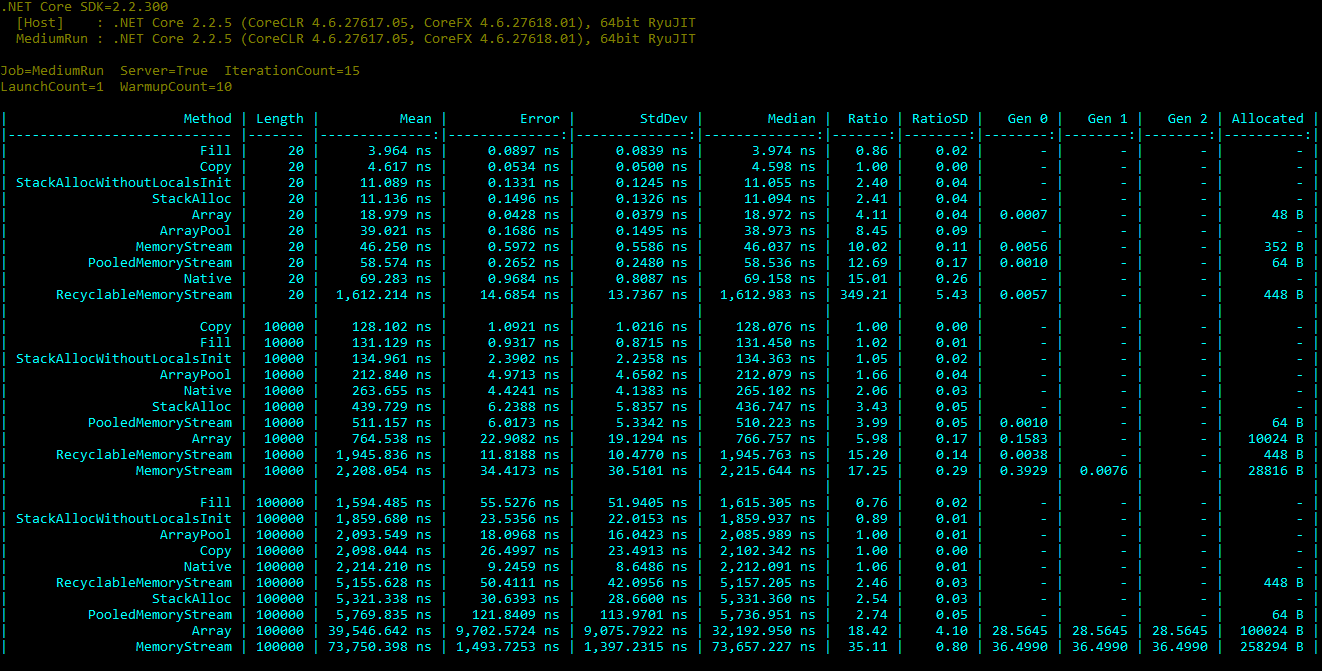
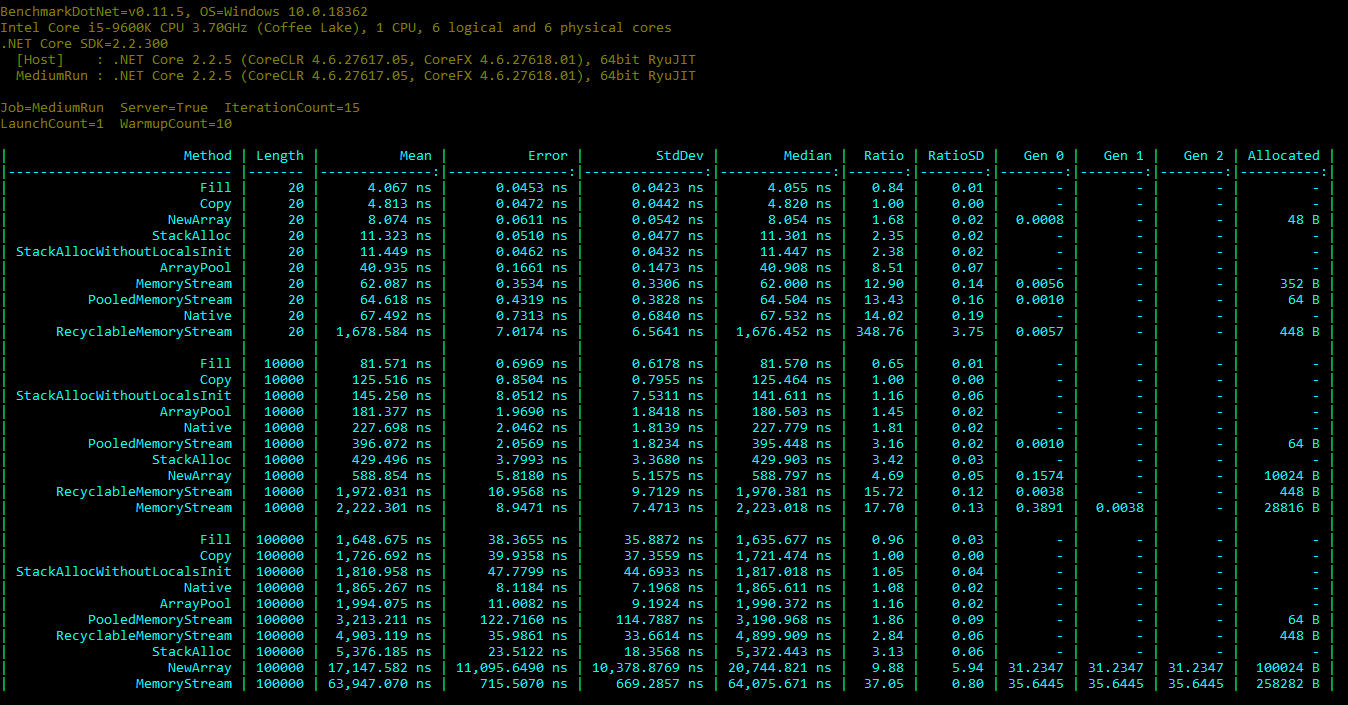
Minor fixes

Changed region(s): [[0.0, 0.0, 1.0, 0.9836], [0.8994, 0.5067, 0.9304, 0.5663]]

diff --git a/PooledMemoryStream/PooledMemoryStream.cs b/PooledMemoryStream/PooledMemoryStream.cs
@@ -7,6 +7,8 @@ namespace BetterStreams
 {
     public sealed class PooledMemoryStream : Stream
     {
+        private const float overexpansionFactor = 2;
+
         private byte[] data;
         private int length;
         private ArrayPool<byte> pool;
@@ -128,7 +130,7 @@ namespace BetterStreams
 
             if (this.Capacity - this.Position < count)
             {
-                this.SetCapacity((int)this.Position + count);
+                this.SetCapacity((int)(overexpansionFactor * (this.Position + count)));
             }
 
             Buffer.BlockCopy(buffer, offset, this.data, (int)this.Position, count);

diff --git a/Benchmarks/Streams.cs b/Benchmarks/Streams.cs
@@ -36,10 +36,10 @@ namespace Benchmarks
         }
 
         [Benchmark]
-        public void Array()
+        public void NewArray()
         {
             var array = new byte[this.Length];
-            this.data.CopyTo(array, 0);
+            Buffer.BlockCopy(array, 0, array, 0, this.Length);
         }
 
         [Benchmark]

diff --git a/README.md b/README.md
@@ -12,37 +12,37 @@ Job=MediumRun  Server=True  IterationCount=15
 LaunchCount=1  WarmupCount=10  
 
 ```
-|                      Method | Length |          Mean |         Error |        StdDev |  Ratio | RatioSD |   Gen 0 |   Gen 1 |   Gen 2 | Allocated |
-|---------------------------- |------- |--------------:|--------------:|--------------:|-------:|--------:|--------:|--------:|--------:|----------:|
-|                        Fill |     20 |      3.758 ns |     0.0521 ns |     0.0487 ns |   0.80 |    0.02 |       - |       - |       - |         - |
-|                        Copy |     20 |      4.673 ns |     0.0634 ns |     0.0593 ns |   1.00 |    0.00 |       - |       - |       - |         - |
-| StackAllocWithoutLocalsInit |     20 |     11.070 ns |     0.0508 ns |     0.0475 ns |   2.37 |    0.03 |       - |       - |       - |         - |
-|                  StackAlloc |     20 |     11.142 ns |     0.1076 ns |     0.0898 ns |   2.38 |    0.04 |       - |       - |       - |         - |
-|                       Array |     20 |     19.553 ns |     0.3221 ns |     0.3013 ns |   4.18 |    0.08 |  0.0007 |       - |       - |      48 B |
-|                   ArrayPool |     20 |     37.095 ns |     0.2159 ns |     0.2019 ns |   7.94 |    0.11 |       - |       - |       - |         - |
-|                MemoryStream |     20 |     58.037 ns |     0.8776 ns |     0.7779 ns |  12.41 |    0.27 |  0.0056 |       - |       - |     352 B |
-|          PooledMemoryStream |     20 |     66.881 ns |     0.1896 ns |     0.1773 ns |  14.31 |    0.18 |  0.0010 |       - |       - |      64 B |
-|                      Native |     20 |     68.231 ns |     1.1526 ns |     1.0781 ns |  14.60 |    0.37 |       - |       - |       - |         - |
-|      RecyclableMemoryStream |     20 |  1,639.042 ns |    10.6559 ns |     9.9676 ns | 350.80 |    4.60 |  0.0057 |       - |       - |     448 B |
-|                             |        |               |               |               |        |         |         |         |         |           |
-|                        Fill |  10000 |     78.834 ns |     0.7876 ns |     0.7367 ns |   0.63 |    0.01 |       - |       - |       - |         - |
-| StackAllocWithoutLocalsInit |  10000 |    100.217 ns |     1.6301 ns |     1.5248 ns |   0.79 |    0.01 |       - |       - |       - |         - |
-|                        Copy |  10000 |    126.100 ns |     0.6411 ns |     0.5353 ns |   1.00 |    0.00 |       - |       - |       - |         - |
-|                   ArrayPool |  10000 |    167.842 ns |     3.5533 ns |     3.3237 ns |   1.34 |    0.03 |       - |       - |       - |         - |
-|                      Native |  10000 |    216.898 ns |     5.6388 ns |     4.9986 ns |   1.72 |    0.04 |       - |       - |       - |         - |
-|                  StackAlloc |  10000 |    425.450 ns |     8.3980 ns |     7.8555 ns |   3.36 |    0.05 |       - |       - |       - |         - |
-|          PooledMemoryStream |  10000 |    523.484 ns |     7.0227 ns |     6.5690 ns |   4.14 |    0.05 |       - |       - |       - |      64 B |
-|                       Array |  10000 |    797.254 ns |    13.5948 ns |    12.7166 ns |   6.33 |    0.10 |  0.1593 |       - |       - |   10024 B |
-|      RecyclableMemoryStream |  10000 |  1,909.457 ns |    12.8024 ns |    11.9754 ns |  15.14 |    0.12 |  0.0038 |       - |       - |     448 B |
-|                MemoryStream |  10000 |  2,036.022 ns |    29.8443 ns |    26.4562 ns |  16.16 |    0.22 |  0.3929 |  0.0076 |       - |   28816 B |
-|                             |        |               |               |               |        |         |         |         |         |           |
-|                        Fill | 100000 |  1,655.496 ns |    50.7124 ns |    47.4365 ns |   0.95 |    0.03 |       - |       - |       - |         - |
-|                        Copy | 100000 |  1,737.465 ns |    29.9842 ns |    26.5802 ns |   1.00 |    0.00 |       - |       - |       - |         - |
-|                      Native | 100000 |  1,831.317 ns |    20.4847 ns |    18.1592 ns |   1.05 |    0.02 |       - |       - |       - |         - |
-| StackAllocWithoutLocalsInit | 100000 |  2,006.037 ns |    25.0503 ns |    23.4320 ns |   1.15 |    0.02 |       - |       - |       - |         - |
-|                   ArrayPool | 100000 |  2,009.389 ns |    16.0198 ns |    14.9849 ns |   1.16 |    0.02 |       - |       - |       - |         - |
-|      RecyclableMemoryStream | 100000 |  4,557.684 ns |   136.9321 ns |   121.3867 ns |   2.62 |    0.06 |       - |       - |       - |     448 B |
-|                  StackAlloc | 100000 |  5,175.712 ns |   115.4865 ns |   108.0262 ns |   2.98 |    0.09 |       - |       - |       - |         - |
-|          PooledMemoryStream | 100000 |  5,276.844 ns |    31.3270 ns |    27.7706 ns |   3.04 |    0.05 |       - |       - |       - |      64 B |
-|                       Array | 100000 | 33,924.043 ns | 2,701.6352 ns | 2,255.9878 ns |  19.56 |    1.26 | 31.1890 | 31.1890 | 31.1890 |  100024 B |
-|                MemoryStream | 100000 | 65,104.760 ns |   851.1694 ns |   796.1844 ns |  37.45 |    0.83 | 36.8652 | 36.8652 | 36.8652 |  258273 B |
+|                      Method | Length |          Mean |          Error |         StdDev |        Median |  Ratio | RatioSD |   Gen 0 |   Gen 1 |   Gen 2 | Allocated |
+|---------------------------- |------- |--------------:|---------------:|---------------:|--------------:|-------:|--------:|--------:|--------:|--------:|----------:|
+|                        Fill |     20 |      4.067 ns |      0.0453 ns |      0.0423 ns |      4.055 ns |   0.84 |    0.01 |       - |       - |       - |         - |
+|                        Copy |     20 |      4.813 ns |      0.0472 ns |      0.0442 ns |      4.820 ns |   1.00 |    0.00 |       - |       - |       - |         - |
+|                    NewArray |     20 |      8.074 ns |      0.0611 ns |      0.0542 ns |      8.054 ns |   1.68 |    0.02 |  0.0008 |       - |       - |      48 B |
+|                  StackAlloc |     20 |     11.323 ns |      0.0510 ns |      0.0477 ns |     11.301 ns |   2.35 |    0.02 |       - |       - |       - |         - |
+| StackAllocWithoutLocalsInit |     20 |     11.449 ns |      0.0462 ns |      0.0432 ns |     11.447 ns |   2.38 |    0.02 |       - |       - |       - |         - |
+|                   ArrayPool |     20 |     40.935 ns |      0.1661 ns |      0.1473 ns |     40.908 ns |   8.51 |    0.07 |       - |       - |       - |         - |
+|                MemoryStream |     20 |     62.087 ns |      0.3534 ns |      0.3306 ns |     62.000 ns |  12.90 |    0.14 |  0.0056 |       - |       - |     352 B |
+|          PooledMemoryStream |     20 |     64.618 ns |      0.4319 ns |      0.3828 ns |     64.504 ns |  13.43 |    0.16 |  0.0010 |       - |       - |      64 B |
+|                      Native |     20 |     67.492 ns |      0.7313 ns |      0.6840 ns |     67.532 ns |  14.02 |    0.19 |       - |       - |       - |         - |
+|      RecyclableMemoryStream |     20 |  1,678.584 ns |      7.0174 ns |      6.5641 ns |  1,676.452 ns | 348.76 |    3.75 |  0.0057 |       - |       - |     448 B |
+|                             |        |               |                |                |               |        |         |         |         |         |           |
+|                        Fill |  10000 |     81.571 ns |      0.6969 ns |      0.6178 ns |     81.570 ns |   0.65 |    0.01 |       - |       - |       - |         - |
+|                        Copy |  10000 |    125.516 ns |      0.8504 ns |      0.7955 ns |    125.464 ns |   1.00 |    0.00 |       - |       - |       - |         - |
+| StackAllocWithoutLocalsInit |  10000 |    145.250 ns |      8.0512 ns |      7.5311 ns |    141.611 ns |   1.16 |    0.06 |       - |       - |       - |         - |
+|                   ArrayPool |  10000 |    181.377 ns |      1.9690 ns |      1.8418 ns |    180.503 ns |   1.45 |    0.02 |       - |       - |       - |         - |
+|                      Native |  10000 |    227.698 ns |      2.0462 ns |      1.8139 ns |    227.779 ns |   1.81 |    0.02 |       - |       - |       - |         - |
+|          PooledMemoryStream |  10000 |    396.072 ns |      2.0569 ns |      1.8234 ns |    395.448 ns |   3.16 |    0.02 |  0.0010 |       - |       - |      64 B |
+|                  StackAlloc |  10000 |    429.496 ns |      3.7993 ns |      3.3680 ns |    429.903 ns |   3.42 |    0.03 |       - |       - |       - |         - |
+|                    NewArray |  10000 |    588.854 ns |      5.8180 ns |      5.1575 ns |    588.797 ns |   4.69 |    0.05 |  0.1574 |       - |       - |   10024 B |
+|      RecyclableMemoryStream |  10000 |  1,972.031 ns |     10.9568 ns |      9.7129 ns |  1,970.381 ns |  15.72 |    0.12 |  0.0038 |       - |       - |     448 B |
+|                MemoryStream |  10000 |  2,222.301 ns |      8.9471 ns |      7.4713 ns |  2,223.018 ns |  17.70 |    0.13 |  0.3891 |  0.0038 |       - |   28816 B |
+|                             |        |               |                |                |               |        |         |         |         |         |           |
+|                        Fill | 100000 |  1,648.675 ns |     38.3655 ns |     35.8872 ns |  1,635.677 ns |   0.96 |    0.03 |       - |       - |       - |         - |
+|                        Copy | 100000 |  1,726.692 ns |     39.9358 ns |     37.3559 ns |  1,721.474 ns |   1.00 |    0.00 |       - |       - |       - |         - |
+| StackAllocWithoutLocalsInit | 100000 |  1,810.958 ns |     47.7799 ns |     44.6933 ns |  1,817.018 ns |   1.05 |    0.04 |       - |       - |       - |         - |
+|                      Native | 100000 |  1,865.267 ns |      8.1184 ns |      7.1968 ns |  1,865.611 ns |   1.08 |    0.02 |       - |       - |       - |         - |
+|                   ArrayPool | 100000 |  1,994.075 ns |     11.0082 ns |      9.1924 ns |  1,990.372 ns |   1.16 |    0.02 |       - |       - |       - |         - |
+|          PooledMemoryStream | 100000 |  3,213.211 ns |    122.7160 ns |    114.7887 ns |  3,190.968 ns |   1.86 |    0.09 |       - |       - |       - |      64 B |
+|      RecyclableMemoryStream | 100000 |  4,903.119 ns |     35.9861 ns |     33.6614 ns |  4,899.909 ns |   2.84 |    0.06 |       - |       - |       - |     448 B |
+|                  StackAlloc | 100000 |  5,376.185 ns |     23.5122 ns |     18.3568 ns |  5,372.443 ns |   3.13 |    0.06 |       - |       - |       - |         - |
+|                    NewArray | 100000 | 17,147.582 ns | 11,095.6490 ns | 10,378.8769 ns | 20,744.821 ns |   9.88 |    5.94 | 31.2347 | 31.2347 | 31.2347 |  100024 B |
+|                MemoryStream | 100000 | 63,947.070 ns |    715.5070 ns |    669.2857 ns | 64,075.671 ns |  37.05 |    0.80 | 35.6445 | 35.6445 | 35.6445 |  258282 B |
